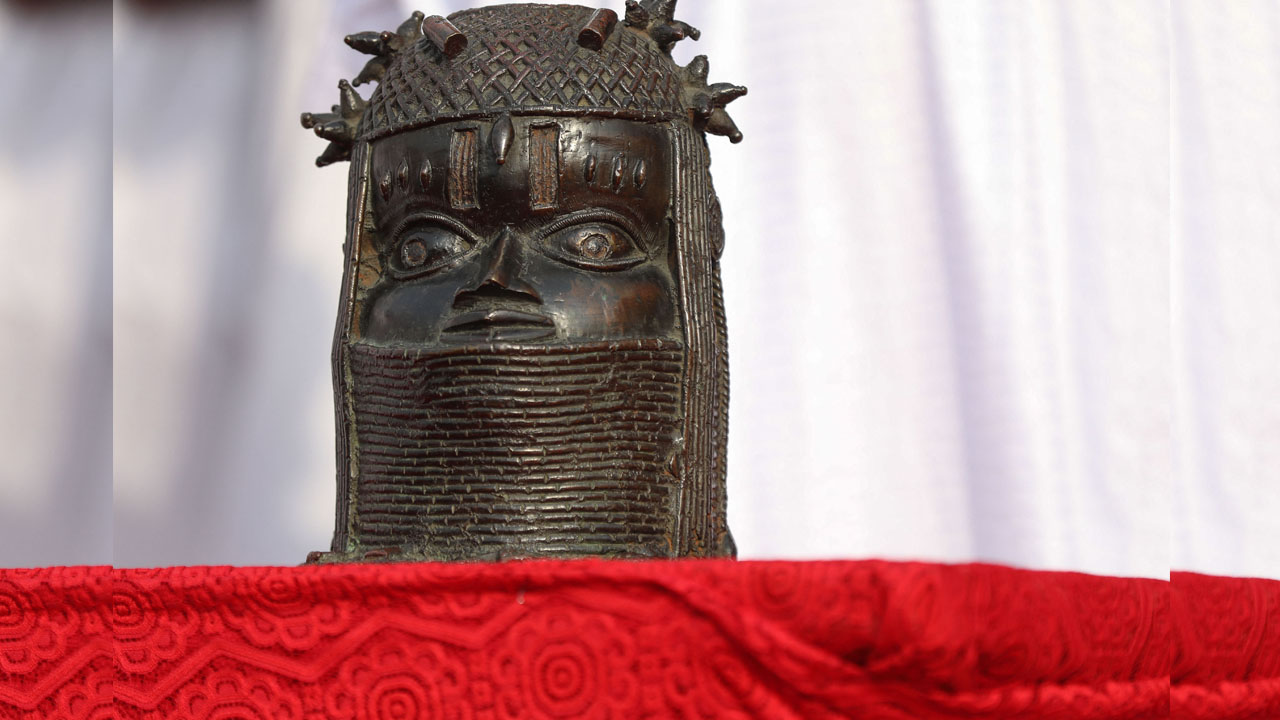
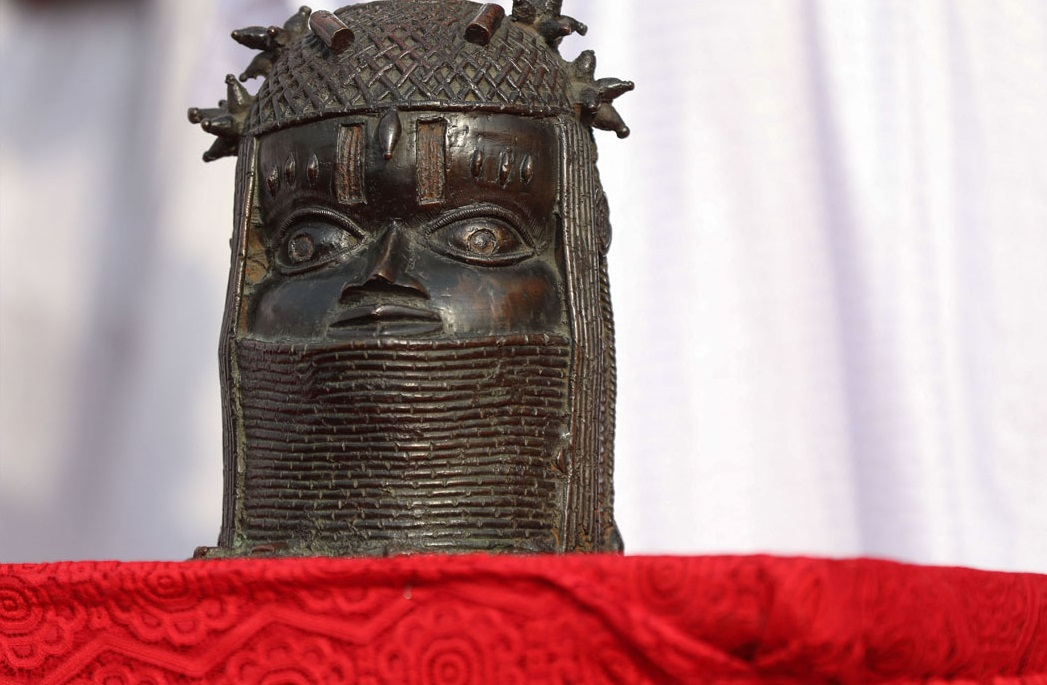
Resize main image

diff --git a/index.html b/index.html
@@ -33,11 +33,12 @@
     </header>
     <section>
         <figure>
-            <img src="assets/images/Benin-artefacts.jpg" alt="Bronze head depicting an Oba (King) of Benin">
-            <figcaption>Bronze head sculpture was recently returned by the University of Abderdeen to the 
+            <img src="assets/images/Benin-artefacts.jpg" alt="Bronze head depicting an Oba (King) of Benin" width="100%">
+            <figcaption id="caption-text">Bronze head sculpture was recently returned by the University of Abderdeen to the 
                 Oba's palace in Benin-city, which is the original location from where it was taken by 
                 British soldiers in 1897. </figcaption>
         </figure>
+
     </section>
     <section>Information about the musuem</section>
     <section>Building Layout</section>

diff --git a/assets/css/style.css b/assets/css/style.css
@@ -9,6 +9,7 @@
 
 body {
     font-family: Quicksand, sans-serif;
+    background-color: #E3AF66;
 }
 
 
@@ -60,4 +61,8 @@ a {
 #menu-left a:hover, #menu-right a:hover {
       border-bottom: 1px solid green;
 }
+
+/* Main image */
+
+
 
